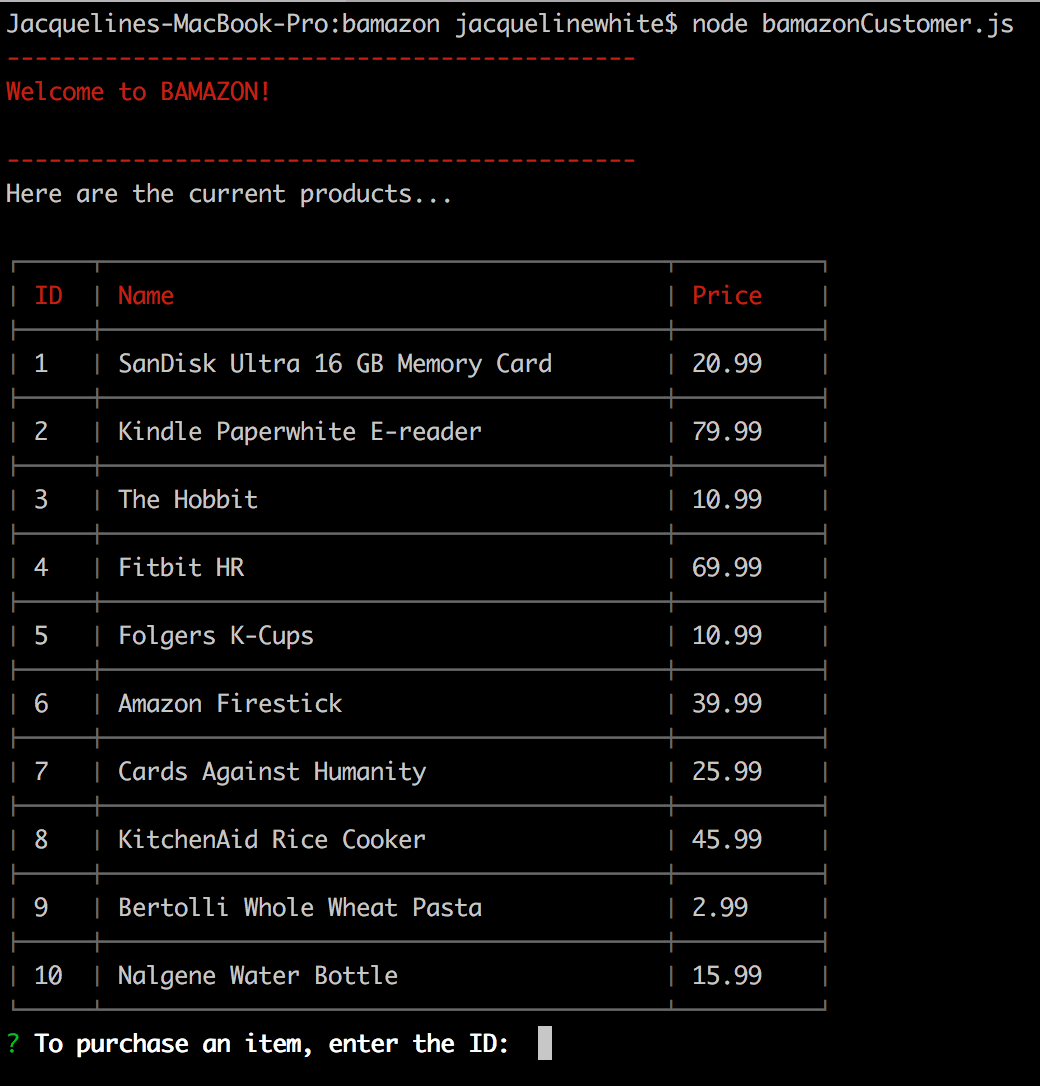
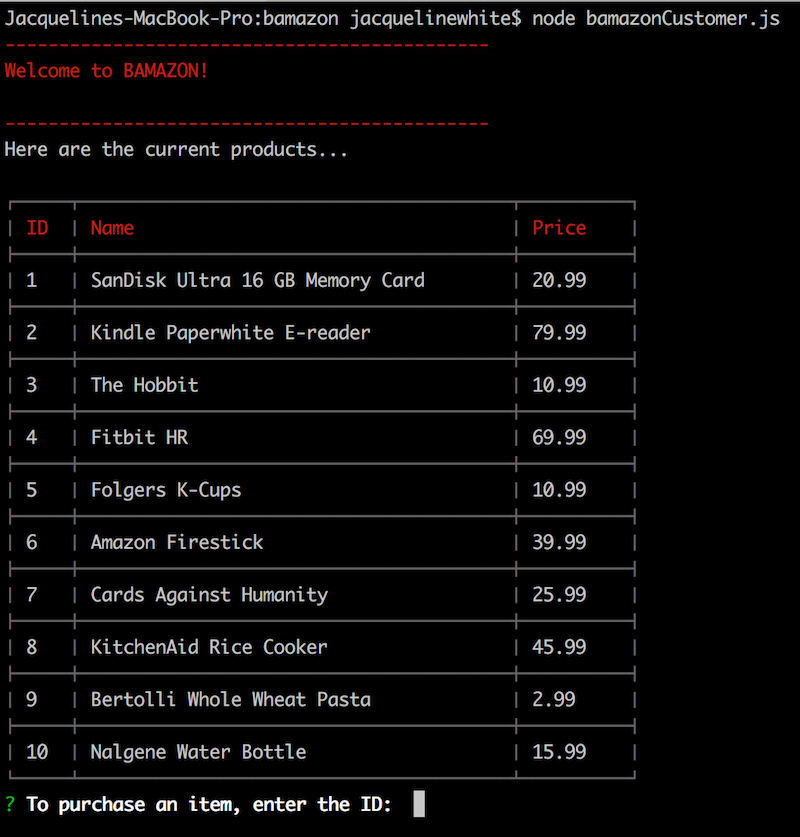
adjusting image sizes

diff --git a/README.md b/README.md
@@ -5,13 +5,13 @@ An Amazon-like storefront utilizing MySQL.  The app takes in orders from custome
 Bamazon is a CLI store that takes you through the following process:
 
 1. Welcome to Bamazon, here are the products:
-[![Alt text](images/welcomescreen.png)](#)
+[![Welcome](images/welcomescreen.png =500x)](#)
 
 2. Next, enter Product ID to purchase:
-[![Alt text](images/qty.png)](#)
+[![Questions](images/qty.png =250x)](#)
 
 3. A function runs to check inventory before the purchase runs.   
-[![Alt text](images/whatnext.png)](#)
+[![What next](images/inquirer.png =250x)](#)
 
 4. If there is enough in the inventory, the purchase is completed and you can then SHOP or EXIT.
-[![Alt text](images/whatnext.png)](#)
+[![What next](images/whatnext.png =250x)](#)
